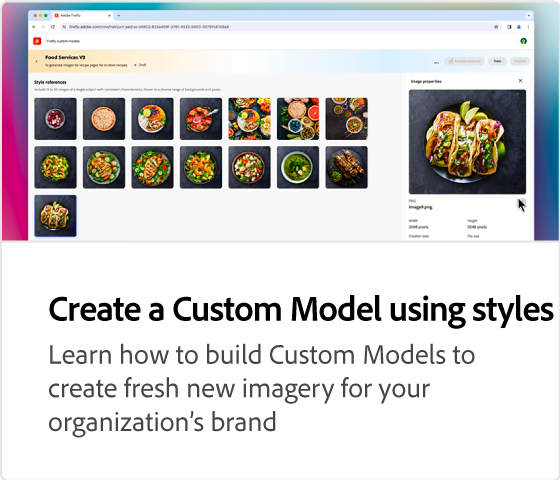
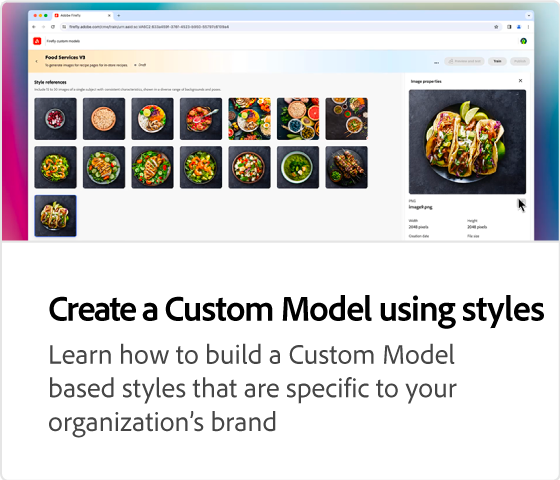
Custom Model Subject tutorial

Changed region(s): [[0.0911, 0.7188, 0.85, 0.8438], [0.1214, 0.5938, 1.0, 0.6875]]

diff --git a/help/firefly/overview-firefly.md b/help/firefly/overview-firefly.md
@@ -54,6 +54,11 @@ Firefly is the new family of creative generative AI models coming to Adobe produ
       </a>
    </td>
    <td>
+      <a href="custom-model-subject.md">
+         <img alt="Create a Custom Model using a subject" src="assets/custom-model-subject.png" />
+      </a>
+   </td>
+   <td>
       <a href="custom-model-style.md">
          <img alt="Create a Custom Model using styles" src="assets/custom-model-styles.png" />
       </a>
@@ -63,14 +68,14 @@ Firefly is the new family of creative generative AI models coming to Adobe produ
          <img alt="Discover Adobe Firefly" src="assets/discover.png" />
       </a>
    </td>
-   <td>
+</tr>
+<tr>
+  <td>
       <a href="landing-page.md">
          <img alt="Landing page" src="assets/landing-page.png" />
       </a>
    </td>
-</tr>
-<tr>
-   <td>
+    <td>
       <a href="text-to-image.md">
          <img alt="Text to image" src="assets/text-to-image.png" />
       </a>
@@ -85,14 +90,14 @@ Firefly is the new family of creative generative AI models coming to Adobe produ
          <img alt="Generative fill" src="assets/generative-fill.png" />
       </a>
    </td>
-   <td>
+</tr>
+<tr>
+  <td>
       <a href="gen-recolor.md">
          <img alt="Generative recolor" src="assets/generative-recolor.png" />
       </a>
    </td>
-</tr>
-<tr>
-  <td>
+   <td>
       <a href="examples.md">
          <img alt="Examples of how to use Firefly" src="assets/examples.png" />
       </a>
@@ -107,22 +112,17 @@ Firefly is the new family of creative generative AI models coming to Adobe produ
          <img alt="Generative Fill in Photoshop" src="assets/generative-fill-ps.png" />
       </a>
    </td>
-  <td>
+</tr>
+<tr>
+   <td>
       <a href="web-banner-ad.md">
          <img alt="Banner ad variations in Photoshop" src="assets/banner-ad-variations.png" />
       </a>
   </td>
-</tr>
-<tr>
-   <td>
+  <td>
       <a href="generative-recolor.md">
             <img alt="Generative Recolor in Illustrator" src="assets/firefly-recolor.png" />
       </a>
-   </td>
-   <td>
-      <img alt="Spacer" src="../assets/Gray_thumbnail.png" />
-      <div>
-      <br>
    </td>
    <td>
       <img alt="Spacer" src="../assets/Gray_thumbnail.png" />

diff --git a/help/firefly/custom-model-subject.md b/help/firefly/custom-model-subject.md
@@ -1,0 +1,15 @@
+---
+title: Create a Custom Model using a Subject
+description: Learn how to build Custom Models in Firefly to create fresh new imagery for your organization's brand using a specific subject
+feature: Graphic Design, Gen AI
+role: User
+level: Beginner
+jira: KT-15269
+---
+# Create a Custom Model using a subject
+
+Learn how to build Custom Models in Firefly to create fresh new imagery for your organization's brand using a specific subject. Custom Models allow you to create relevant, personalized content at scale. Try Adobe Firefly [here](https://firefly.adobe.com/).
+
+<br>&nbsp;
+
+>[!VIDEO](https://video.tv.adobe.com/v/3428094?quality=12&learn=on&hidetitle=true)

diff --git a/help/TOC.md b/help/TOC.md
@@ -106,6 +106,7 @@ auto-video-transcripts: true
   + Tutorials {#firefly-tutorials}
     + [Overview of [!DNL Adobe Firefly]](firefly/overview-of-firefly.md)
     + [Discover [!DNL Adobe Firefly]](firefly/discover.md)
+    + [Create a Custom Model using a subject](firefly/custom-model-subject.md)
     + [Create a Custom Model using styles](firefly/custom-model-style.md)
     + [Landing page](firefly/landing-page.md)
     + [Text to image](firefly/text-to-image.md)
